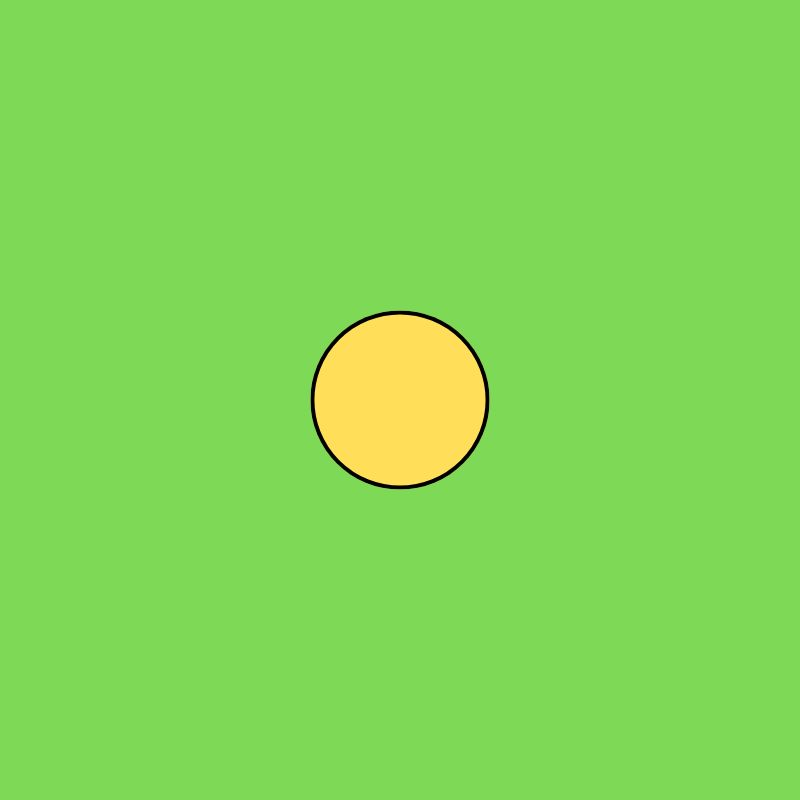
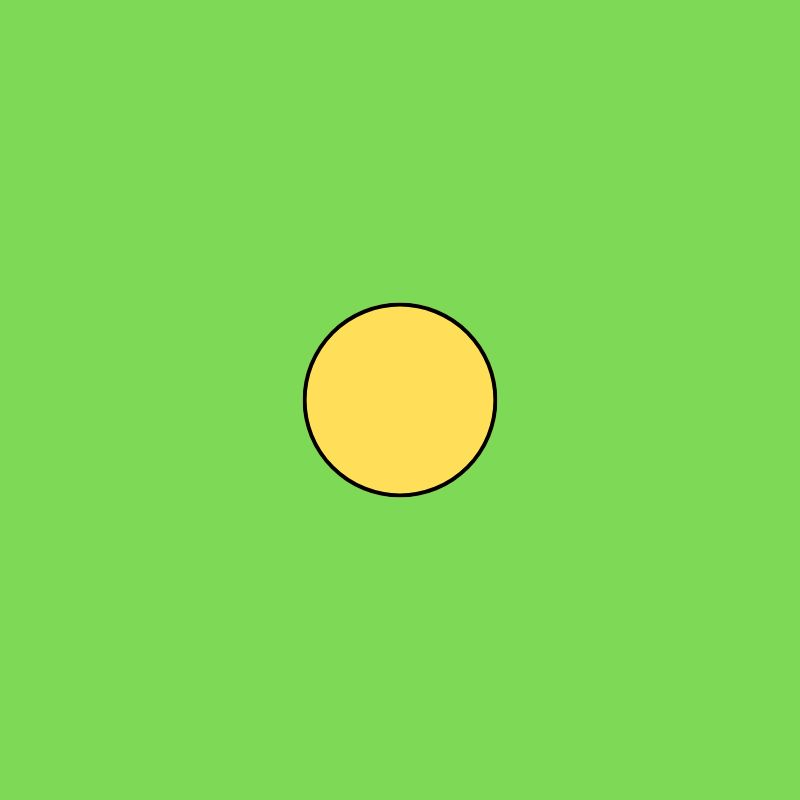
Added the settings

Changed region(s): [[0.375, 0.375, 0.625, 0.625]]

diff --git a/game_solution.py b/game_solution.py
@@ -1,4 +1,4 @@
-from tkinter import Tk, IntVar, Label, PhotoImage, messagebox, Button, Canvas, BooleanVar, Entry
+from tkinter import Tk, IntVar, Label, PhotoImage, messagebox, Button, Canvas, BooleanVar, Entry, Toplevel, Spinbox
 from PIL import Image, ImageTk
 import math
 import random
@@ -28,10 +28,10 @@ def show_home():
 
 
 def start_game():
-    global player_name, name_entry
+    global player_name, name_entry, game_over_bool, right_button, left_button, fire_button
+    game_over_bool.set(False)
     name = name_entry.get()
     player_name = name
-    print(player_name)
     if player_name == "":
         messagebox.showerror("missing name", "Please Enter your name in the box")
         return
@@ -54,7 +54,7 @@ def start_game():
     # Add the Frog
     frog_img = Image.open("frog.png")
     frog = ImageTk.PhotoImage(frog_img)
-    frog_label = Label(window, image=frog, background="#ffffff")
+    frog_label = Label(window, image=frog, background="#ffde59")
     frog_label.image = frog
     frog_label.place(relx=0.5, rely=0.5, anchor="center")
 
@@ -64,13 +64,13 @@ def start_game():
         frog_label.config(image=frog_label.image)
 
     def rotate_left(event=None):
-        global rotation_angle
-        rotation_angle = (rotation_angle + 10) % 360
+        global rotation_angle, rotation_speed
+        rotation_angle = (rotation_angle + rotation_speed) % 360
         update_frog_image()
 
     def rotate_right(event=None):
-        global rotation_angle
-        rotation_angle = (rotation_angle - 10) % 360
+        global rotation_angle, rotation_speed
+        rotation_angle = (rotation_angle - rotation_speed) % 360
         update_frog_image()
     
     def fire(event=None):
@@ -119,9 +119,9 @@ def start_game():
                 
             move_tongue()
     
-    window.bind("<Left>", rotate_left)
-    window.bind("<Right>", rotate_right)
-    window.bind("<space>", fire)
+    window.bind(f"<{left_button}>", rotate_left)
+    window.bind(f"<{right_button}>", rotate_right)
+    window.bind(f"<{fire_button}>", fire)
         
     # Pause and Unpause
     is_paused = False
@@ -132,8 +132,41 @@ def start_game():
         pause_button.config(text="Unpause" if is_paused else "Pause")
 
     pause_button = Button(window, text="Pause", command=pause_toggle, font=("Arial", 14))
-    pause_button.pack(pady=10)
+    pause_button.pack()
 
+    def boss_key(event=None):
+        """Toggle the fake workspace window (mock_window) for the boss key."""
+        mock_window = Toplevel(window)
+        mock_window.title("My workspace")
+        mock_window.geometry("800x800")
+        bg_image = Image.open("mock_picture.jpg")
+        bg_image = bg_image.resize((800, 800))
+        bg_photo = ImageTk.PhotoImage(bg_image)
+        
+        bg_label = Label(mock_window, image=bg_photo)
+        bg_label.image = bg_photo
+        bg_label.place(relwidth=1, relheight=1)
+        
+        window.iconify()
+        pause_toggle()
+        
+
+    # Bind the boss key (Ctrl+B)
+    window.bind('<Control-b>', boss_key)
+
+    def submit_key():
+        pass
+    
+    def show_input():
+        cheat_entry.pack()
+        submit_button.pack()
+        pass
+
+    cheat_entry = Entry(window, text="", width=20)
+    cheat_code = Button(window, text="Cheats", command=show_input, font=("Arial", 14))
+    submit_button = Button(window, text="Enter", command=submit_key, font=("Arial", 14))
+    cheat_code.pack()
+    
     bug_img = Image.open("fly.png")
     bug_img = bug_img.resize((20,20))
     bug = ImageTk.PhotoImage(bug_img)
@@ -163,7 +196,7 @@ def start_game():
             elif enemy_type == 'bat':
                 enemy_img = bat
             
-            enemy_label = Label(window, image=enemy_img, background="#ffffff")
+            enemy_label = Label(window, image=enemy_img, background="#7ed957")
             enemies.append((enemy_label, enemy_type))
             enemy_label.image = enemy_img
 
@@ -190,7 +223,7 @@ def start_game():
             move_enemy(enemy_label, enemy_type)
 
             if enemy_type == 'bug':
-                window.after(5000, lambda: spawn_enemy('bug'))
+                window.after(5000, lambda: spawn_enemy('bug'))  # We used lambda to delay the function call
             if enemy_type == 'butterfly':
                 window.after(8000, lambda: spawn_enemy('butterfly'))
             if enemy_type == 'bat':
@@ -258,11 +291,14 @@ def game_over():
 
         title = Label(window, text="Game Over", font=("Arial", 20), background="#ffffff")
         leaderboard_button = Button(window, text="Leaderboard", command=show_leaderboard, font=("Arial", 16))
+        home_button = Button(window, text="Back to Home", command=show_home, font=("Arial", 16))
         score_label = Label(window, text=f"Your Score: {score.get()}", font=("Arial", 16), background="#ffffff")
         
         title.pack(anchor="center", pady=10)
         score_label.pack(pady=10)
         leaderboard_button.pack(pady=10)
+        home_button.pack(pady=20)
+        
 
 def show_leaderboard():
     for widget in window.winfo_children():
@@ -281,7 +317,7 @@ def show_leaderboard():
     title.pack(anchor="center", pady=10)
     for i in range(min(5, len(scores))):
         player_name, score = scores[i]
-        rank_label = Label(window, text=f"{i+1}.  {player_name}: {score}", font=("Arial", 12), background="#ffffff")
+        rank_label = Label(window, text=f"{i+1}. {player_name}: {score}", font=("Arial", 12), background="#ffffff")
         rank_label.pack(anchor="center", pady=10)
 
     home_button.pack(pady=20) 
@@ -289,21 +325,80 @@ def show_leaderboard():
 def open_settings():
     for widget in window.winfo_children():
         widget.destroy()
+
+    def set_left_binding(event):
+        global left_button
+        left_button = event.keysym 
+        left_label.config(text=f"Left action now bound to: {left_button}")
+        window.unbind("<KeyPress>") 
+
+    def set_right_binding(event):
+        global right_button
+        right_button = event.keysym  
+        right_label.config(text=f"Right action now bound to: {right_button}")
+        window.unbind("<KeyPress>")
+
+    def set_fire_binding(event):
+        global fire_button
+        fire_button = event.keysym  
+        fire_label.config(text=f"Fire action now bound to: {fire_button}")
+        window.unbind("<KeyPress>")   
+
+    def change_rotation_func():
+        global rotation_speed
+        rotation_speed = int(change_rotation.get())
+        rotation_label.config(text=f"Rotation Speed: {rotation_speed}")
+
     title = Label(window, text="Settings", font=("Arial", 16), background="#ffffff")
     home_button = Button(window, text="Back to Home", command=show_home, font=("Arial", 16))
+    
+    left_label = Label(window, text=f"Left action currently bound to: {left_button}", font=("Arial", 16), background="#ffffff")
+    right_label = Label(window, text=f"Right action currently bound to: {right_button}", font=("Arial", 16), background="#ffffff")
+    fire_label = Label(window, text=f"Fire action currently bound to: {fire_button}", font=("Arial", 16), background="#ffffff")
+    
+    change_left = Button(window, text="Press any key for Left", font=("Arial", 16), command=lambda: window.bind("<KeyPress>", set_left_binding))
+    change_right = Button(window, text="Press any key for Right", font=("Arial", 16), command=lambda: window.bind("<KeyPress>", set_right_binding))
+    change_fire = Button(window, text="Press any key for Fire", font=("Arial", 16), command=lambda: window.bind("<KeyPress>", set_fire_binding))
+
+    change_rotation_button = Button(window, text="Change the rotation speed", font=("Arial", 16), command=change_rotation_func)
+    
+    
+    change_rotation = Spinbox(window, from_=1, to=20, state="readonly", font=("Arial", 14), width=5)
+    change_rotation.delete(0, "end")
+    change_rotation.insert(0, rotation_speed)
+    
+    rotation_label = Label(window, text=f"Rotation Speed: {rotation_speed}", font=("Arial", 16), background="#ffffff")
 
     title.pack(anchor="center", pady=10)
-    home_button.pack(pady=20)
+    
+    change_left.pack(pady=10)
+    left_label.pack()
+    
+    change_right.pack(pady=10)
+    right_label.pack()
+
+    change_fire.pack(pady=10)
+    fire_label.pack()
+
+    change_rotation_button.pack(pady=10)
+    change_rotation.pack()
+    rotation_label.pack(pady=10)
+
+    home_button.pack(pady=30)
 
 window = Tk()
 configure_window()
 show_home()
 
-# Here are the global variables
+# Here is the global variables
 rotation_angle = 0  # for frog rotation
 score = IntVar(value=0)
 game_over_bool = BooleanVar(value=False)    # To prevent movement during the end of the game
 enemies = []
 player_name = ""
+right_button = "Right"
+left_button = "Left"
+fire_button = "space"
+rotation_speed = 10
 
 window.mainloop()
